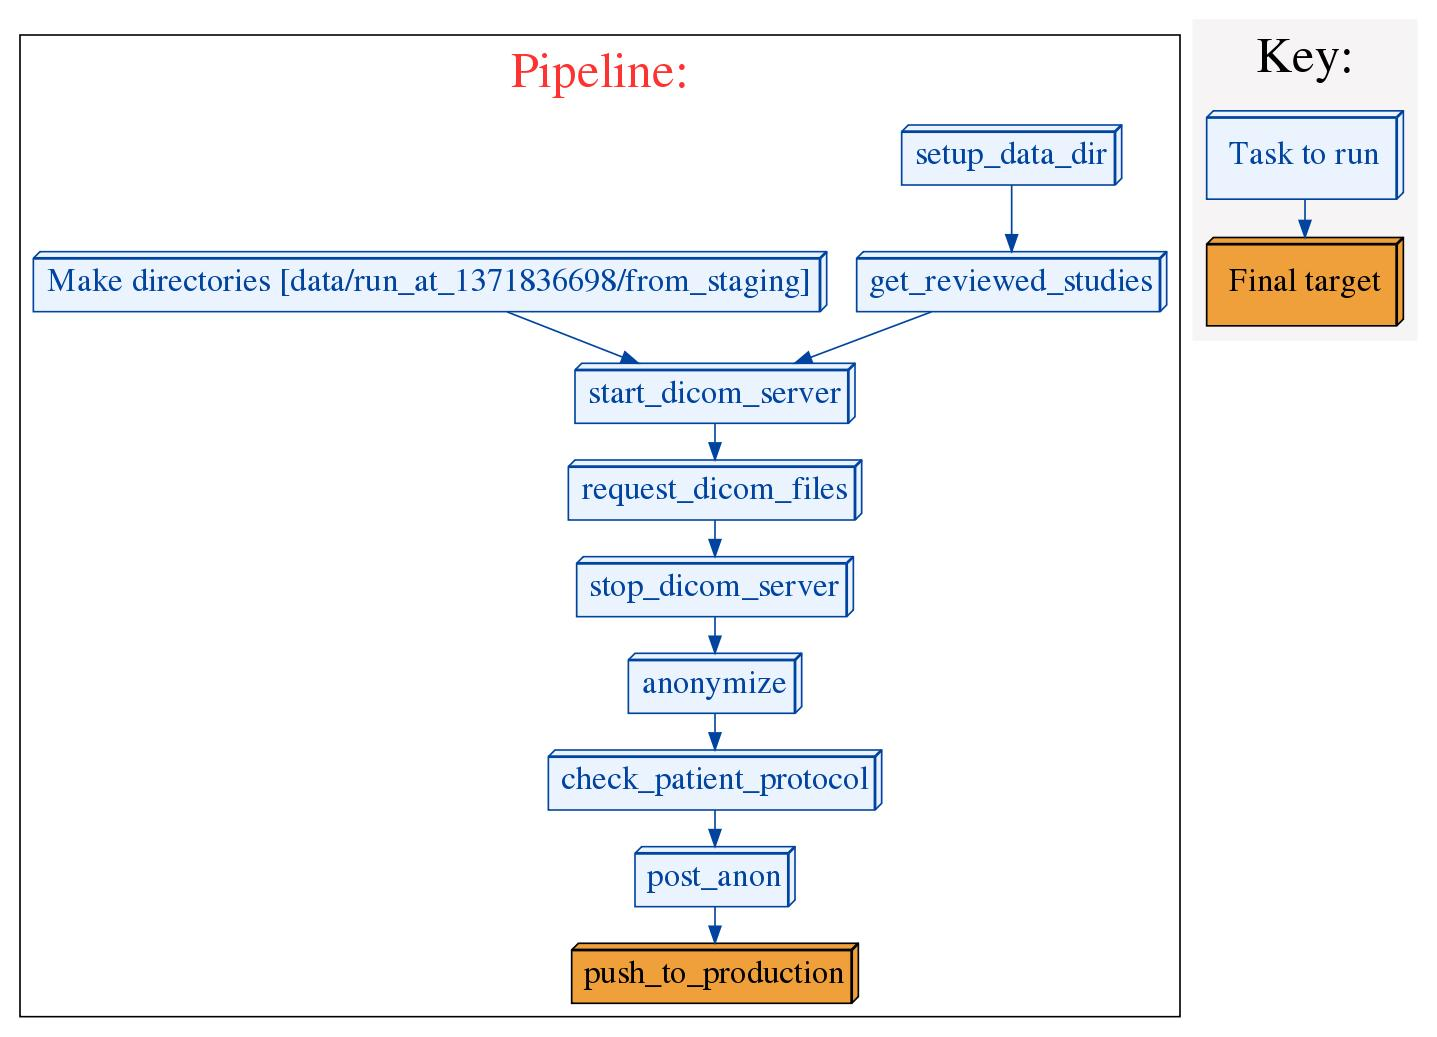
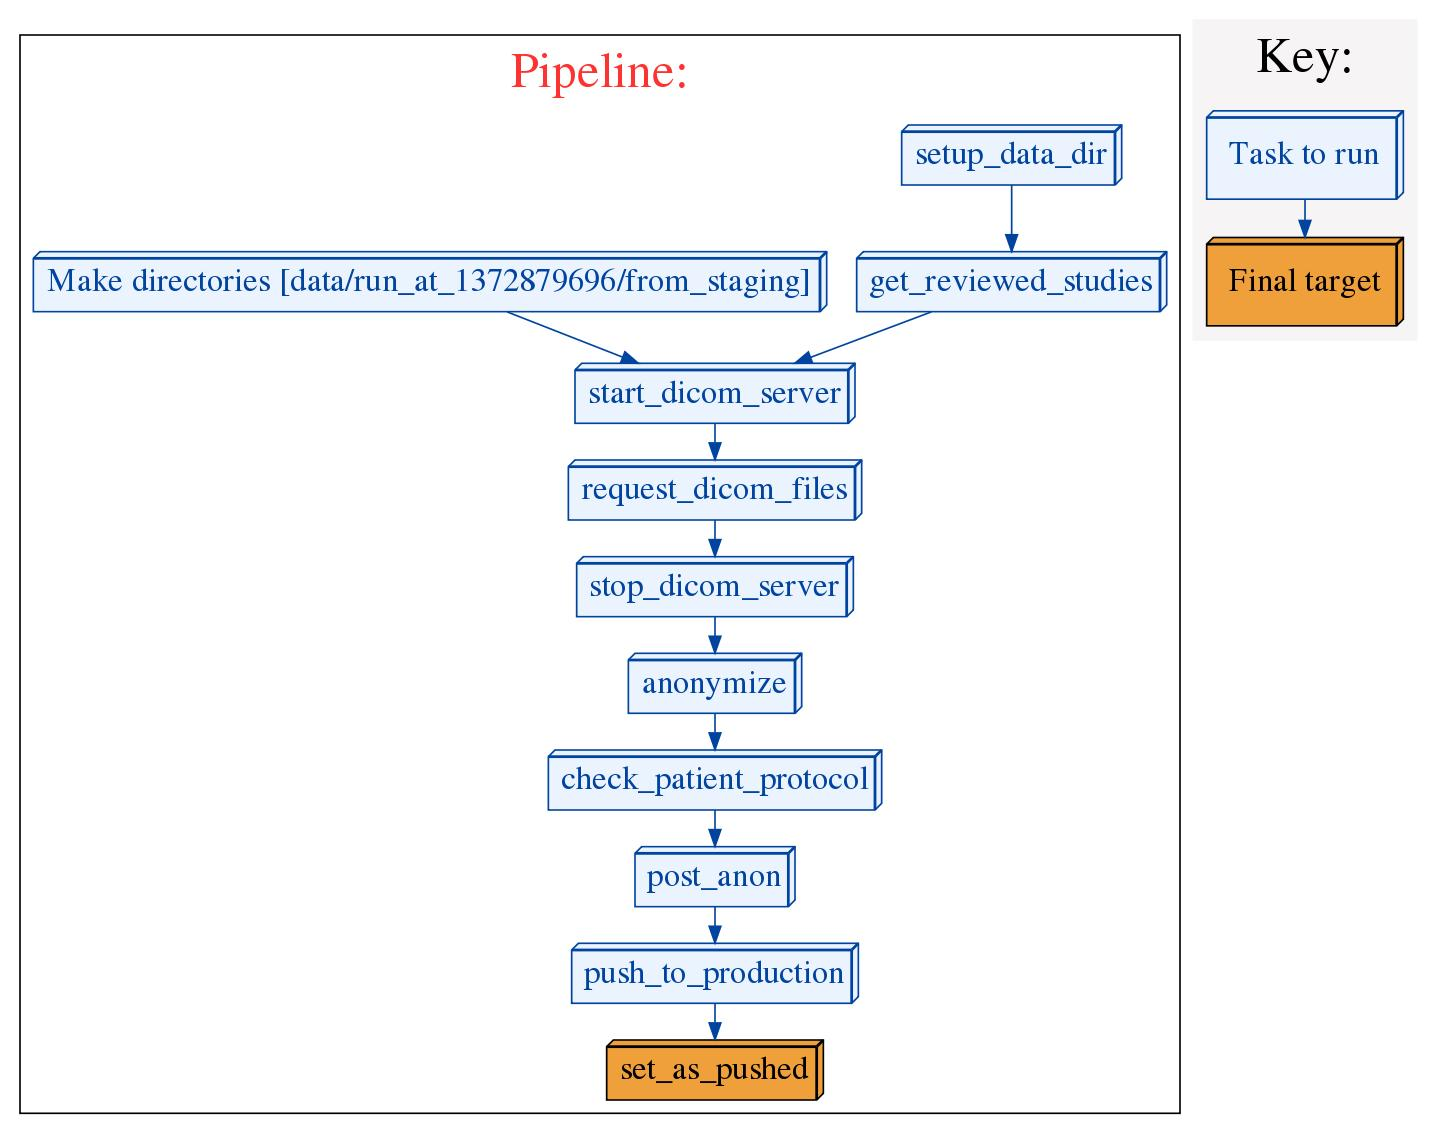
Update readme, flowchart.

Changed region(s): [[0.0, 0.0309, 0.9798, 0.9875], [0.6124, 0.0926, 0.7961, 0.1851], [0.3368, 0.0309, 0.4899, 0.0926]]

diff --git a/README.md b/README.md
@@ -16,8 +16,10 @@ The pipeline records information about each step using log files in a time stamp
 <img src="https://raw.github.com/cbmi/dicom-pipeline/master/pipeline-flowchart.png"/>
 </center>
 
-## Architecture Assumptions
+## Notice
+This pipeline is currently using a very new DICOM anonymizer (located at http://github.com/cbmi/dicom-anon). Please us with caution and report any issues.
 
+## Architecture Assumptions
 This pipeline assumes you have two image archives (PACS), one where identified images are stored (staging) and one where the de-identified images will be stored (production). It is assumed that you are running the [django-dicom-review](https://github.com/cbmi/django-dicom-review) application so that it serves up to reviewers images from the identified staging archive, and this pipeline will be pushing to the production staging archive.
 
 ## Pre-requisites not automatically installed
@@ -138,9 +140,9 @@ The process of linking de-identified studies to existing de-identified patients 
 select original from accession_no where cleaned = '<cleaned_accession_no>';
 ```
 
-### Limited Vocabulary Lists
+### White lists
 
-Some DICOM values can potentially contain PHI, but completely stripping them can reduce the utility of the studies for research. This is especially true for Study and Series descriptions because it makes it difficult to tell what the study contains. To accommodate this, the anonymizer allows you to enforce whitelists on specific DICOM attributes. If the value matches one on the whitelist, it will be left, if not, it will be stripped. The dictionary is stored in a file called `dicom_limited_vocabulary.json`. It is a dictionary where the keys are DICOM attributes in the format "0000,0000", and the values are lists of strings that are allowed for that value. By default, it is an empty dictionary, so nothing will be enforced. Below is an example that would allow a couple values for Study and Series description.
+Some DICOM values can potentially contain PHI, but completely stripping them can reduce the utility of the studies for research. This is especially true for Study and Series descriptions because it makes it difficult to tell what the study contains. To accommodate this, the anonymizer allows you to enforce white lists on specific DICOM attributes. If the value matches one on the white list, it will be left, if not, it will be stripped. The dictionary is stored in a file called `dicom_limited_vocabulary.json`. It is a dictionary where the keys are DICOM attributes in the format "0000,0000", and the values are lists of strings that are allowed for that value. By default, it is an empty dictionary, so nothing will be enforced. Below is an example that would allow a couple values for Study and Series description.
 
 ```json
 {
